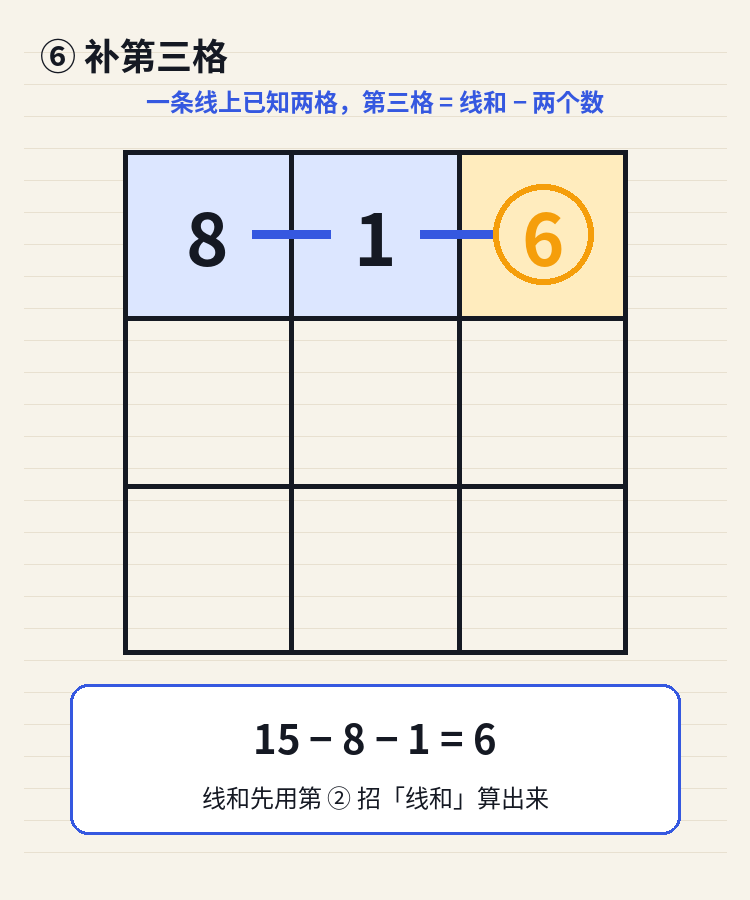
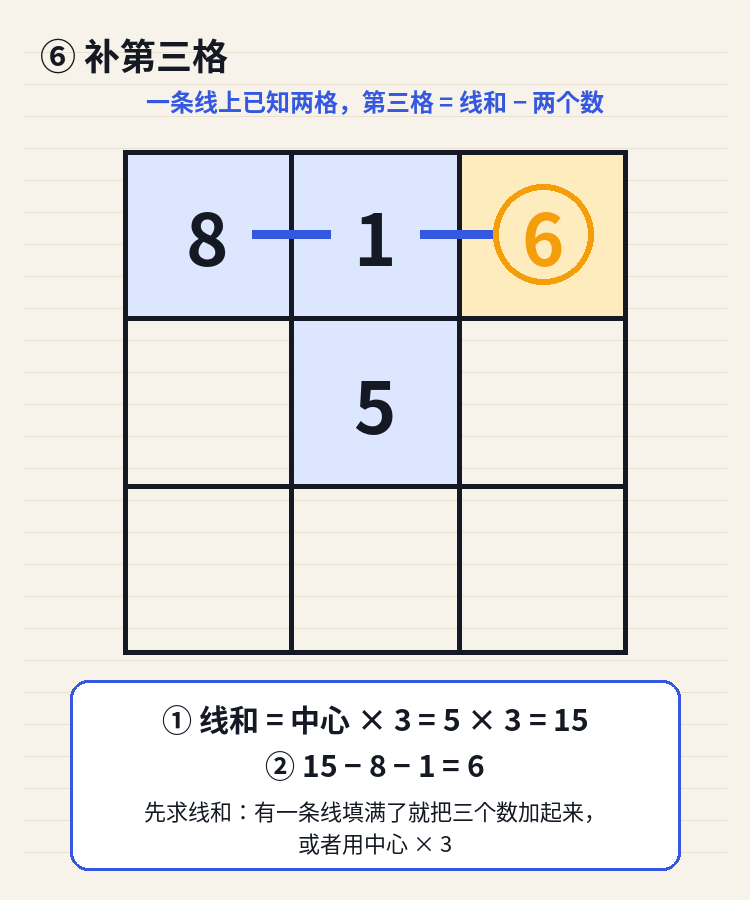
huanfang: tip 06 shows how to get line sum

Changed region(s): [[0.092, 0.7467, 0.92, 0.9956], [0.368, 0.3422, 0.6133, 0.56]]

diff --git a/huanfang/app.js b/huanfang/app.js
@@ -602,7 +602,7 @@
   }
 
   // src/main.ts
-  var BUILD = true ? "1793333562815" : String(Date.now());
+  var BUILD = true ? "1793334296978" : String(Date.now());
   var app = document.getElementById("app");
   var toastEl = document.getElementById("toast");
   var state = {
@@ -1529,7 +1529,7 @@
     {
       file: "tip_06_third.png",
       title: "\u8865\u7B2C\u4E09\u683C",
-      body: "\u4E00\u6761\u7EBF\u4E0A\u5DF2\u77E5\u4E24\u683C\uFF1A\u7B2C\u4E09\u683C = \u7EBF\u548C \u2212 \u8FD9\u4E24\u4E2A\u6570\u3002\u7EBF\u548C\u5148\u7528\u7B2C \u2461 \u62DB\u7B97\u51FA\u6765\u3002",
+      body: "\u5148\u6C42\u7EBF\u548C\uFF1A\u6709\u4E00\u6761\u7EBF\u586B\u6EE1\u4E86\u5C31\u628A\u4E09\u4E2A\u6570\u52A0\u8D77\u6765\uFF0C\u6216\u8005\u7528\u4E2D\u5FC3 \xD7 3\u3002\u518D\u770B\u4E00\u6761\u7EBF\u4E0A\u5DF2\u77E5\u4E24\u683C\uFF1A\u7B2C\u4E09\u683C = \u7EBF\u548C \u2212 \u8FD9\u4E24\u4E2A\u6570\u3002",
       motto: "\u53E3\u8BC0\uFF1A\u7EBF\u548C\u51CF\u4E24\u6570\uFF0C\u5269\u4E0B\u5C31\u662F\u5B83\u3002"
     }
   ];

diff --git a/huanfang/index.html b/huanfang/index.html
@@ -8,12 +8,12 @@
   <title>幻方</title>
   <link rel="icon" href="favicon.svg" type="image/svg+xml" />
   <link rel="icon" href="favicon.ico" sizes="any" />
-  <link rel="stylesheet" href="styles.css?v=1793333562815" />
+  <link rel="stylesheet" href="styles.css?v=1793334296978" />
 </head>
 <body>
   <div id="app"></div>
   <div id="toast" class="toast" role="status" aria-live="polite"></div>
-  <script>window.__BUILD__ = "1793333562815";</script>
-  <script src="app.js?v=1793333562815"></script>
+  <script>window.__BUILD__ = "1793334296978";</script>
+  <script src="app.js?v=1793334296978"></script>
 </body>
 </html>
